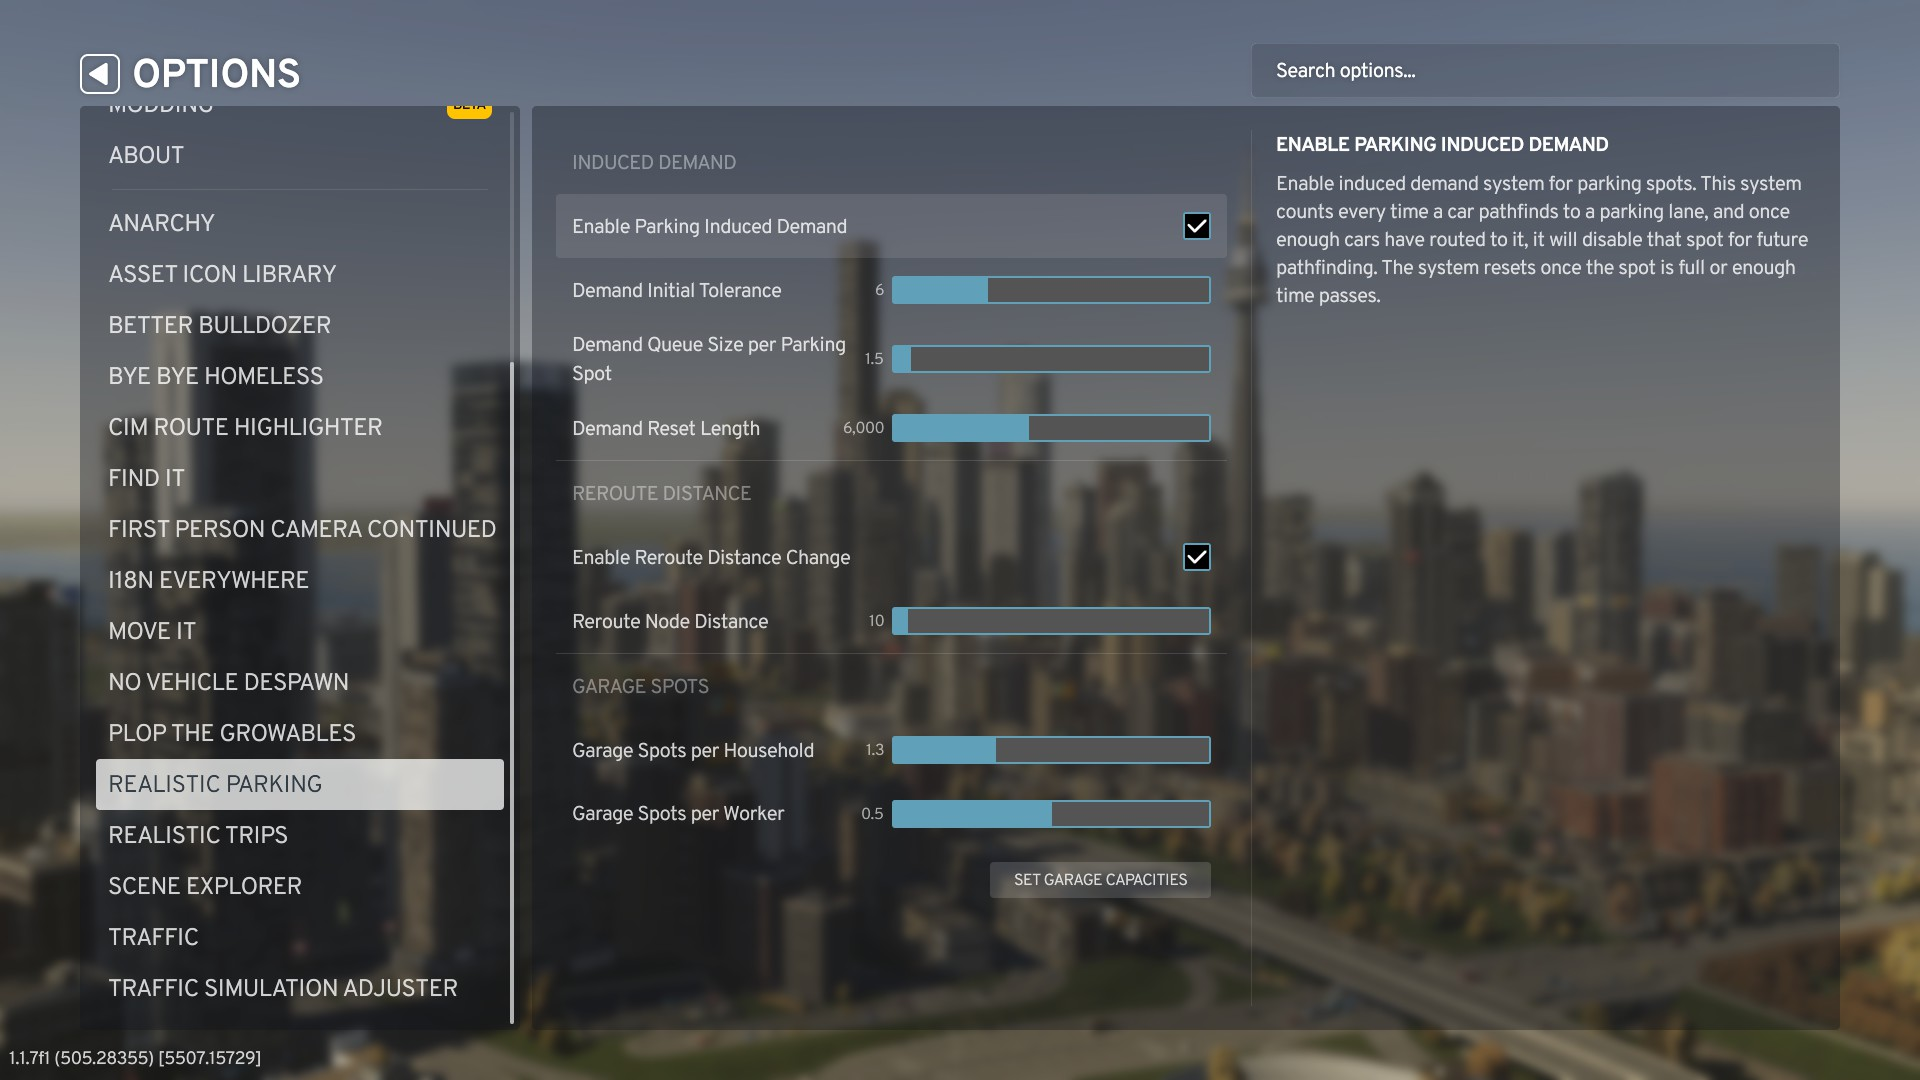
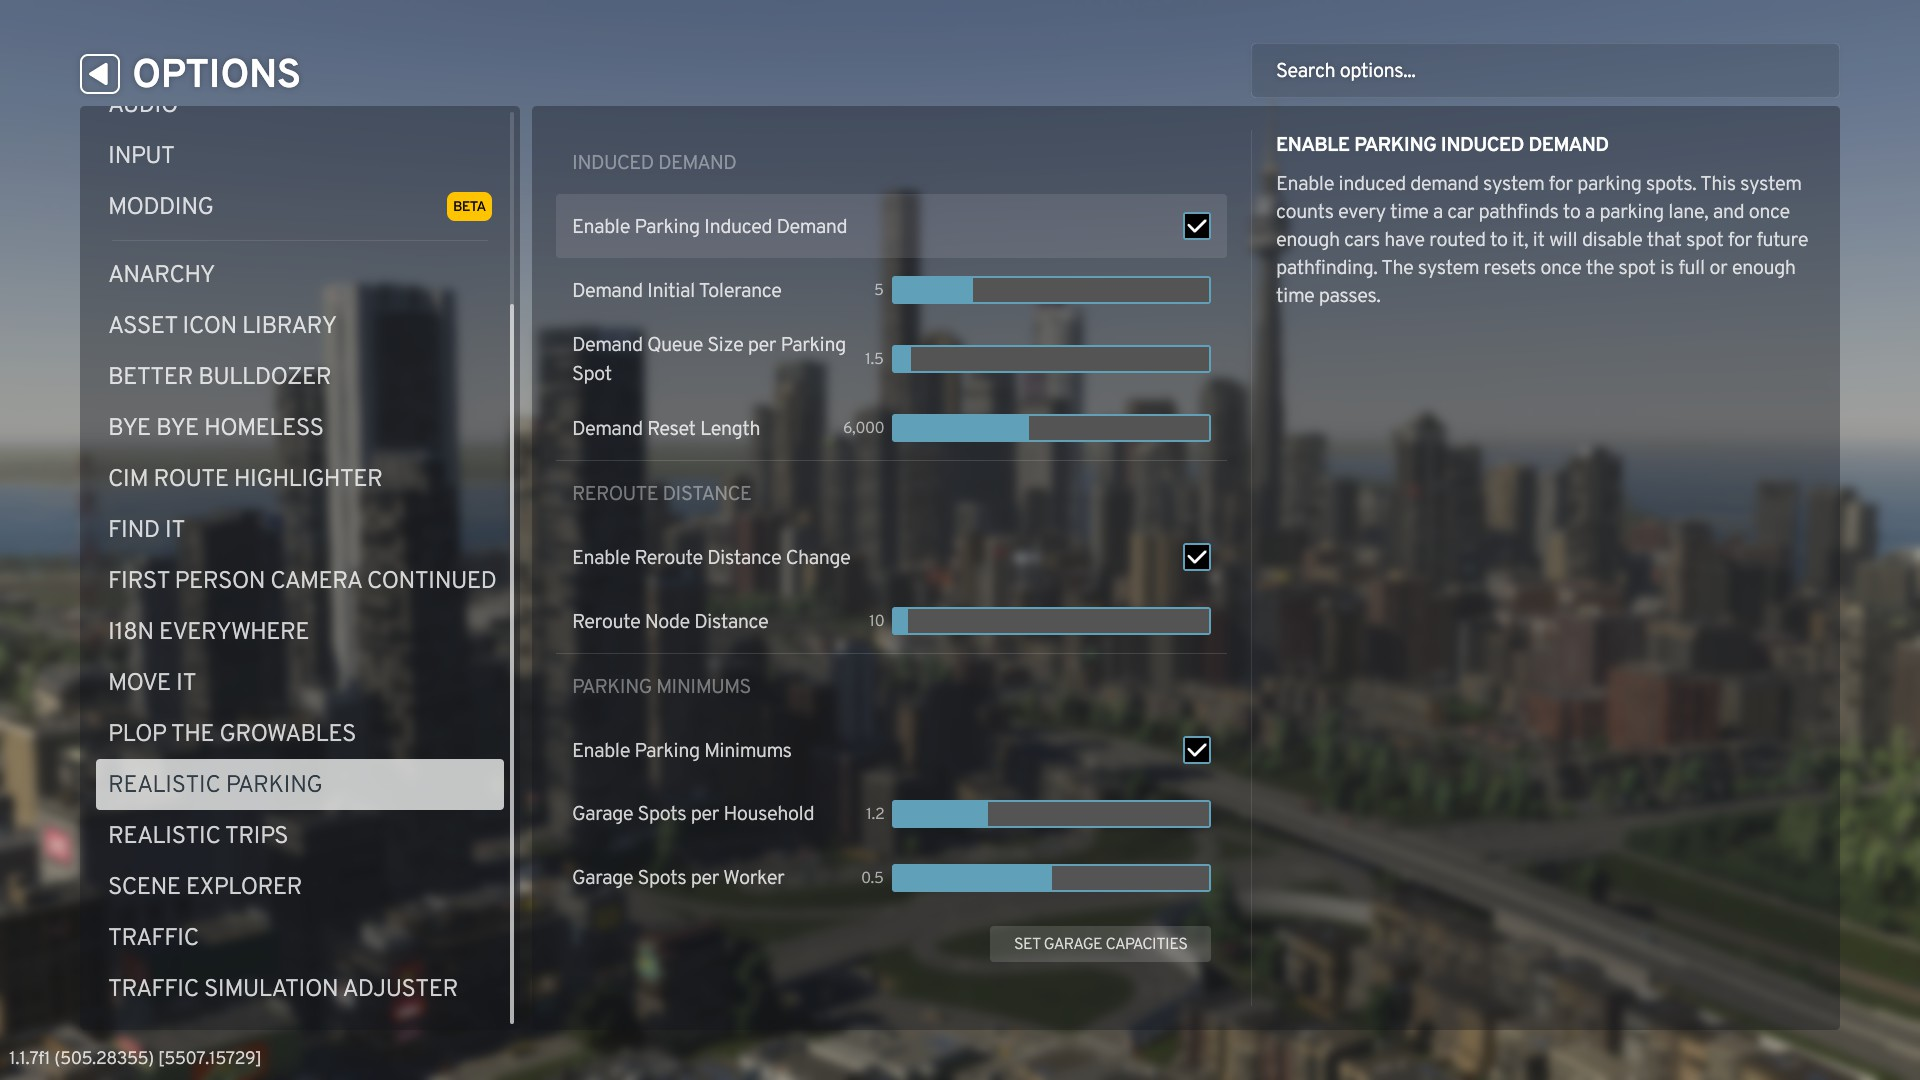
updated to v1.0.5 - adding ability to disable parking minimums

diff --git a/Setting.cs b/Setting.cs
@@ -54,12 +54,18 @@ namespace RealisticParking
         public int RerouteDistance { get; set; }
 
 
+        [SettingsUISection(MainTab, kGarageSpotsGroup)]
+        public bool EnableParkingMins { get; set; }
+        private bool hideParkingMins() => !EnableParkingMins;
+
         [SettingsUISlider(min = 0f, max = 4f, step = 0.1f, unit = "floatSingleFraction")]
         [SettingsUISection(MainTab, kGarageSpotsGroup)]
+        [SettingsUIDisableByCondition(typeof(Setting), nameof(hideParkingMins))]
         public float GarageSpotsPerResProp { get; set; }
 
         [SettingsUISlider(min = 0f, max = 1f, step = 0.1f, unit = "floatSingleFraction")]
         [SettingsUISection(MainTab, kGarageSpotsGroup)]
+        [SettingsUIDisableByCondition(typeof(Setting), nameof(hideParkingMins))]
         public float GarageSpotsPerWorker { get; set; }
 
         [SettingsUIButton]
@@ -81,6 +87,7 @@ namespace RealisticParking
             InducedDemandQueueSizePerSpot = 1.5f;
             EnableRerouteDistance = true;
             RerouteDistance = 10;
+            EnableParkingMins = true;
             GarageSpotsPerResProp = 1.3f;
             GarageSpotsPerWorker = 0.5f;
         }
@@ -134,7 +141,11 @@ namespace RealisticParking
                 { m_Setting.GetOptionDescLocaleID(nameof(Setting.RerouteDistance)), 
                     "Number of nodes away for cars to reroute based on parking availability. For reference, the vanilla value is 4000." 
                 },
-                { m_Setting.GetOptionGroupLocaleID(Setting.kGarageSpotsGroup), "Garage Spots" },
+                { m_Setting.GetOptionGroupLocaleID(Setting.kGarageSpotsGroup), "Parking Minimums" },
+                { m_Setting.GetOptionLabelLocaleID(nameof(Setting.EnableParkingMins)), "Enable Parking Minimums" },
+                { m_Setting.GetOptionDescLocaleID(nameof(Setting.EnableParkingMins)),
+                    "Enable parking minimums for garages. Vanilla apartments have upwards of 3 spots and offices have around 30."
+                },
                 { m_Setting.GetOptionLabelLocaleID(nameof(Setting.GarageSpotsPerResProp)), "Garage Spots per Household" },
                 { m_Setting.GetOptionDescLocaleID(nameof(Setting.GarageSpotsPerResProp)), 
                     "The number of garage spots per household in the apartment. Apartments with no garage in the asset are not affected." 
@@ -145,7 +156,7 @@ namespace RealisticParking
                 },
                 { m_Setting.GetOptionLabelLocaleID(nameof(Setting.SetGarageCapacitiesButton)), "Set Garage Capacities" },
                 { m_Setting.GetOptionDescLocaleID(nameof(Setting.SetGarageCapacitiesButton)),
-                    "Sets custom garage capacities."
+                    "Sets garage capacities based on current settings."
                 },
             };
         }

diff --git a/Jobs/UpdateLaneDataJob.cs b/Jobs/UpdateLaneDataJob.cs
@@ -34,6 +34,7 @@ namespace RealisticParking
         [ReadOnly] public BufferLookup<Renter> renterLookup;
         [ReadOnly] public ComponentLookup<WorkProvider> workProviderLookup;
         [ReadOnly] public bool enableDemandSystem;
+        [ReadOnly] public bool enableParkingMinimums;
         [ReadOnly] public int demandTolerance;
         [ReadOnly] public float demandSizePerSpot;
         [ReadOnly] public float garageSpotsPerResident;
@@ -67,20 +68,28 @@ namespace RealisticParking
             return customFreeSpace;
         }
 
-        // apply custom garage capacity based on household and worker count
+        // apply custom garage capacity based on household and worker count if enabled
         private int ApplyCustomGarageCapacity(Entity buildingEntity, BuildingPropertyData buildingData) 
         {
-            int capacity = (int)(buildingData.CountProperties(Game.Zones.AreaType.Residential) * garageSpotsPerResident);
-            if ((buildingData.CountProperties(Game.Zones.AreaType.Commercial) > 0 || buildingData.CountProperties(Game.Zones.AreaType.Industrial) > 0)
-                && renterLookup.TryGetBuffer(buildingEntity, out DynamicBuffer<Renter> renters))
+            int capacity;
+            if (enableParkingMinimums)
             {
-                for (int i = 0; i < renters.Length; i++)
+                capacity = (int)(buildingData.CountProperties(Game.Zones.AreaType.Residential) * garageSpotsPerResident);
+                if ((buildingData.CountProperties(Game.Zones.AreaType.Commercial) > 0 || buildingData.CountProperties(Game.Zones.AreaType.Industrial) > 0)
+                    && renterLookup.TryGetBuffer(buildingEntity, out DynamicBuffer<Renter> renters))
                 {
-                    if (workProviderLookup.TryGetComponent(renters[i], out var workProvider))
+                    for (int i = 0; i < renters.Length; i++)
                     {
-                        capacity += (int)(workProvider.m_MaxWorkers * garageSpotsPerWorker);
+                        if (workProviderLookup.TryGetComponent(renters[i], out var workProvider))
+                        {
+                            capacity += (int)(workProvider.m_MaxWorkers * garageSpotsPerWorker);
+                        }
                     }
                 }
+            }
+            else
+            {
+                capacity = Mathf.RoundToInt(buildingData.m_SpaceMultiplier);
             }
             return capacity;
         }

diff --git a/Systems/NewParkingLaneDataSystem.cs b/Systems/NewParkingLaneDataSystem.cs
@@ -33,6 +33,7 @@ namespace RealisticParking
         private float garageSpotsPerResProp;
         private float garageSpotsPerWorker;
         private bool enableDemandSystem;
+        private bool enableParkingMinimums;
         private int demandTolerance;
         private float demandSizePerSpot;
 
@@ -149,6 +150,7 @@ namespace RealisticParking
             updateLaneJob.garageCountLookup = SystemAPI.GetComponentLookup<GarageCount>(isReadOnly: true);
             updateLaneJob.commandBuffer = modificationEndBarrier.CreateCommandBuffer().AsParallelWriter();
             updateLaneJob.enableDemandSystem = this.enableDemandSystem;
+            updateLaneJob.enableParkingMinimums = this.enableParkingMinimums;
             updateLaneJob.demandTolerance = this.demandTolerance;
             updateLaneJob.demandSizePerSpot = this.demandSizePerSpot;
             JobHandle jobHandle = JobChunkExtensions.ScheduleParallel(updateLaneJob, m_LaneQuery, JobHandle.CombineDependencies(base.Dependency, dependencies));
@@ -163,6 +165,7 @@ namespace RealisticParking
             this.garageSpotsPerResProp = settings.GarageSpotsPerResProp;
             this.garageSpotsPerWorker = settings.GarageSpotsPerWorker;
             this.enableDemandSystem = settings.EnableInducedDemand;
+            this.enableParkingMinimums = settings.EnableParkingMins;
             this.demandTolerance = settings.InducedDemandInitialTolerance;
             this.demandSizePerSpot = settings.InducedDemandQueueSizePerSpot;
         }

diff --git a/README.md b/README.md
@@ -7,6 +7,7 @@ This mod aims to make the parking behavior more realistic and improve traffic ef
 * **Induced Demand for Parking**: With this mod, parking spots will only accept a limited amount of pathfinding requests, so once enough cars start driving towards a spot, it will become closed off to future pathfinding. This makes it so that there will be a more realistic amount of cars in the city relative to the amount of available parking.
 * **Reduced Parking Reroute Distance**: In vanilla, cars can detect an unavailable parking spot up to 4000 nodes away, causing them to make erratic and dangerous u-turns when they reroute to a new spot. This mod allows you to reduce that number so that cars will only try to find new parking once they are near their target parking spot.
 * **Increased Parking Garage Capacities**: In vanilla, apartments only have 2-3 parking spots in their garages, even if there are hundreds of residents, and high-rise offices also usually only have 30 spots, regardless of the number of employees. This mod alters the parking garage capacity to be dependent on the household and worker count of the property. Note that many building assets do not have a parking garage built in, and this mod does not add them in.
+* All features can be disabled if wanted
 
 ## Adding to an existing save
 * This mod can be safely added to an existing save, but it may cause some weird behavior at first. Since the demand system does not affect existing pathfinding requests from before the mod, if you have limited parking in your city, you may see cars flocking to one parking spot before rerouting away. To alleviate this behavior, I recommended that you keep your reroute distance high at first and wait for the these cars to reroute.
@@ -18,7 +19,7 @@ This mod aims to make the parking behavior more realistic and improve traffic ef
 * The parking reroute distance system does not affect vanilla values.
 
 ## Notes
-* Parking garage's vehicle count values may appear bugged, as it will rise without cars entering. This is working as intended, as this count is representative of the garage's demand + actual count. I might change it in the future to show the actual count if many people want it.
+* Parking garage's vehicle count values may appear bugged, as it will rise without cars entering. This is a limitation of the current implementation, as this count is used in pathfinding and representative of the garage's demand + actual count. I might change it in the future to show the actual count if many people want it.
 
 ## Credits
 * To krzychu124 for their Scene Explorer mod and mattswarthout for their Cim Route Highlighter mod which I used extensively for development
